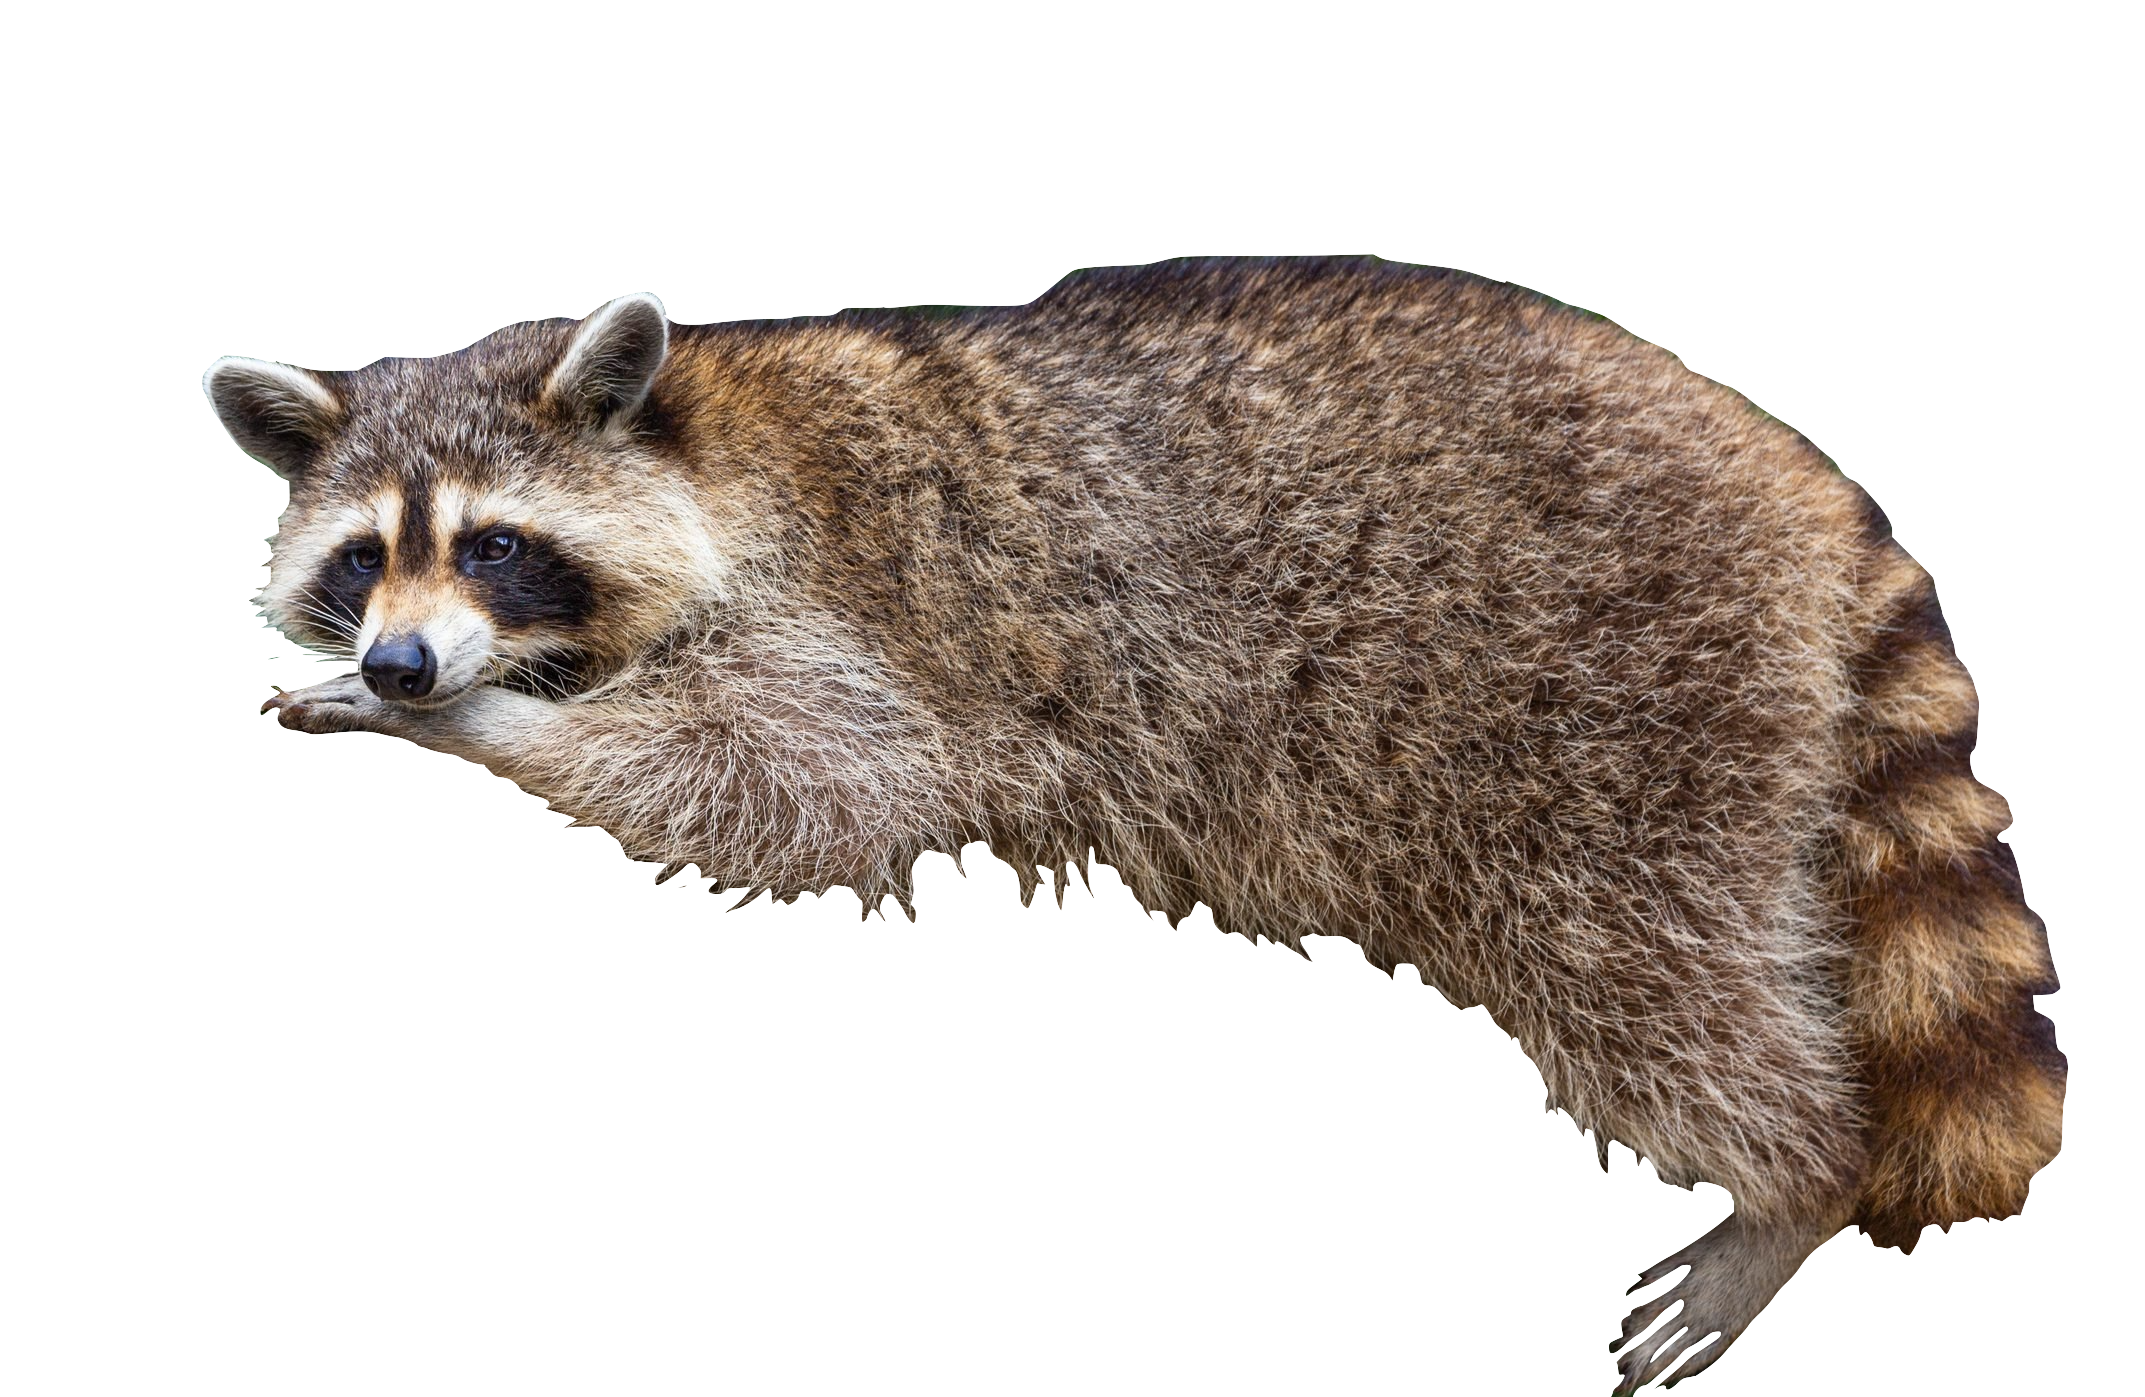
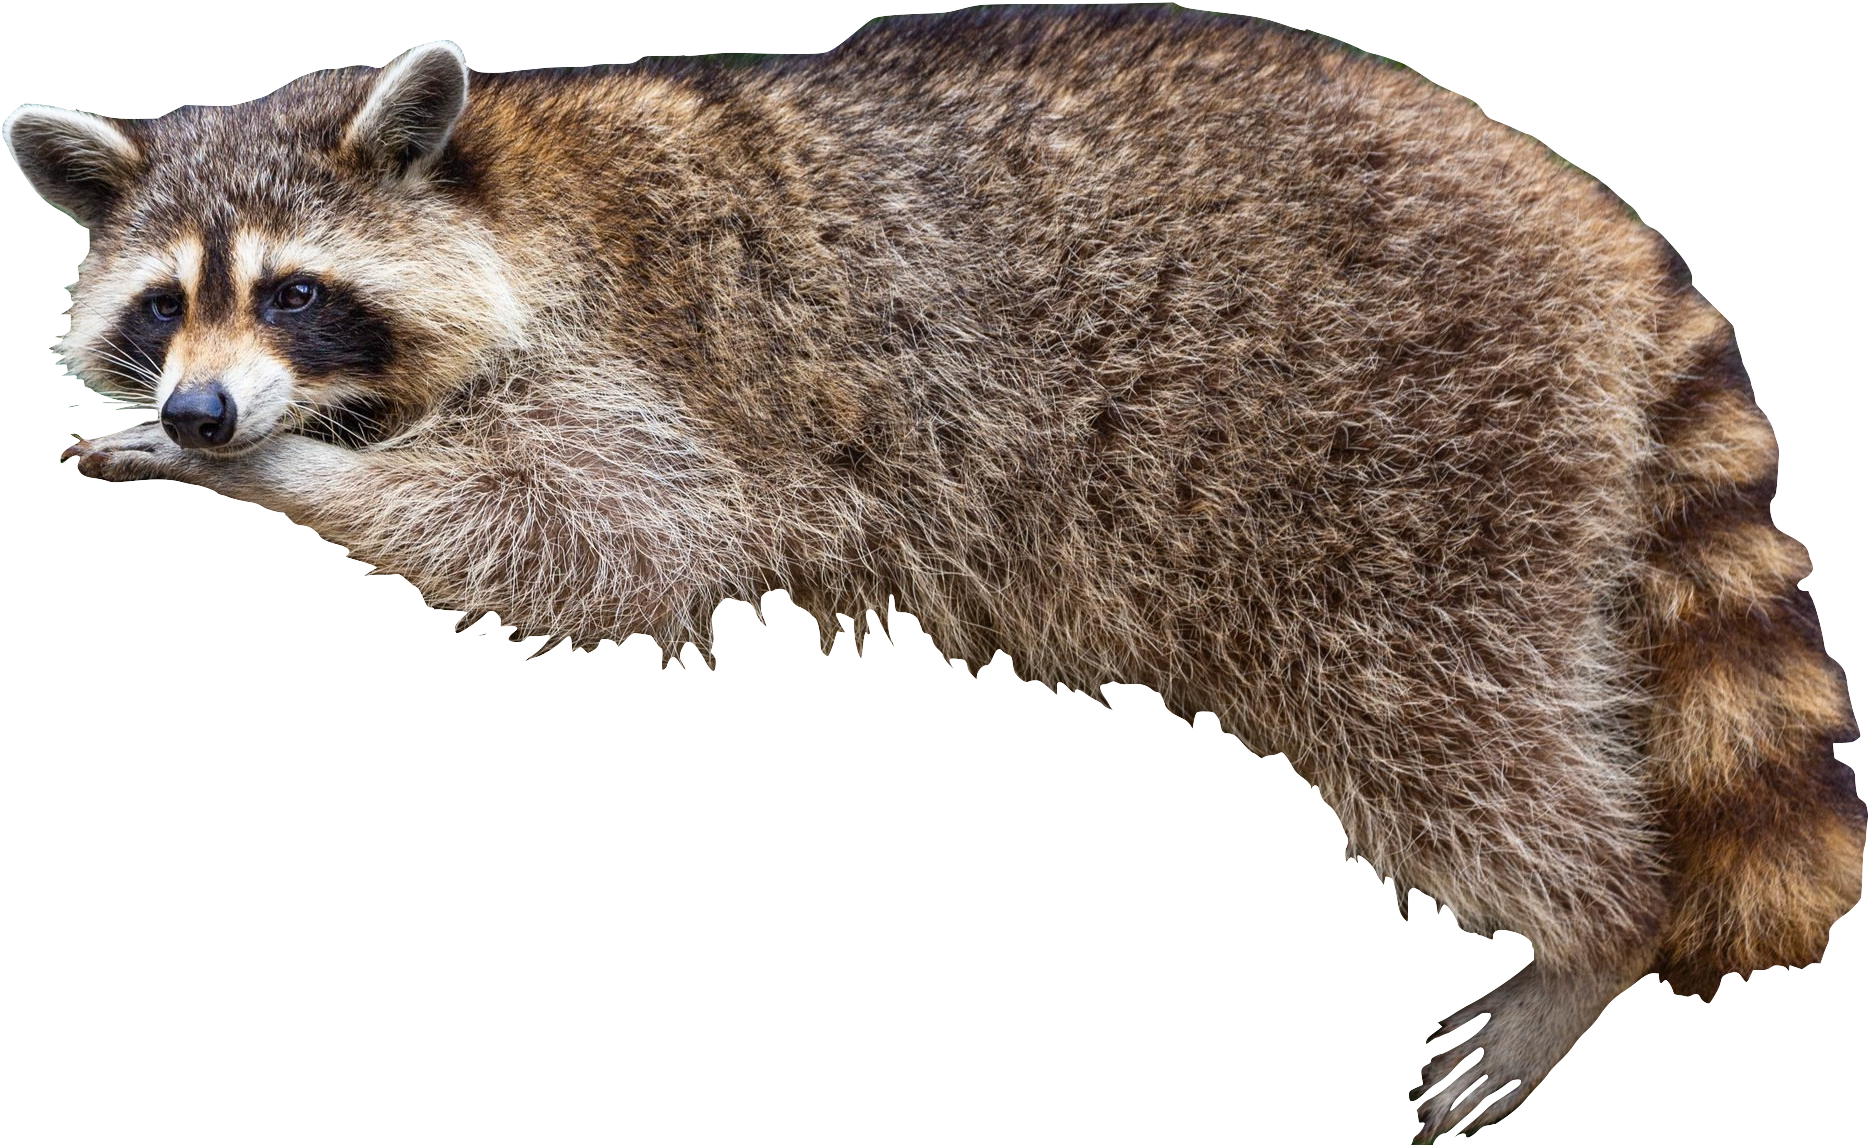
images positioned on Landing page

diff --git a/src/components/Landing/style.css b/src/components/Landing/style.css
@@ -1,0 +1,45 @@
+.landing {
+  padding: 250px 0 20px 0;
+}
+
+.landing .rope-bg {
+  background-image: url("../../images/rope.png");
+  width: 100vw;
+  height: 10px;
+  background-position: center center;
+}
+
+.landing .jeremy {
+  width: 40vw;
+  max-width: 300px;
+  position: absolute;
+  top: calc(250px - 9.5vw);
+  left: 58vw;
+}
+@media only screen and (min-width: 800px) {
+  .landing .jeremy {
+    top: calc(250px - 72px);
+    left: calc(95vw - 300px);
+  }
+}
+.landing .jeremiah {
+  width: 35vw;
+  max-width: 220px;
+  position: absolute;
+  -webkit-transform: scaleX(-1);
+  transform: scaleX(-1);
+  left: 5vw;
+  top: calc(250px - 21.7vw);
+}
+@media only screen and (min-width: 628px) {
+  .landing .jeremiah {
+    top: calc(250px - 136px);
+  }
+}
+
+.landing .birthday-img {
+  width: 40vw;
+  min-width: 300px;
+  display: block;
+  margin: 0 auto;
+}

diff --git a/src/index.css b/src/index.css
@@ -1,13 +1,22 @@
 body {
   margin: 0;
-  font-family: -apple-system, BlinkMacSystemFont, 'Segoe UI', 'Roboto', 'Oxygen',
-    'Ubuntu', 'Cantarell', 'Fira Sans', 'Droid Sans', 'Helvetica Neue',
+  font-family: -apple-system, BlinkMacSystemFont, "Segoe UI", "Roboto", "Oxygen",
+    "Ubuntu", "Cantarell", "Fira Sans", "Droid Sans", "Helvetica Neue",
     sans-serif;
   -webkit-font-smoothing: antialiased;
   -moz-osx-font-smoothing: grayscale;
 }
 
 code {
-  font-family: source-code-pro, Menlo, Monaco, Consolas, 'Courier New',
+  font-family: source-code-pro, Menlo, Monaco, Consolas, "Courier New",
     monospace;
+}
+
+html {
+  --theme-salmon: #dbb1bc;
+  --theme-light-purple: #d3c4e3;
+  --theme-purple: #8f95d3;
+  --theme-blue: #89daff;
+  --theme-brown: #58504a;
+  background-color: var(--theme-blue);
 }

diff --git a/src/index.js b/src/index.js
@@ -1,14 +1,14 @@
-import React from 'react';
-import ReactDOM from 'react-dom';
-import './index.css';
-import App from './App';
-import reportWebVitals from './reportWebVitals';
+import React from "react";
+import ReactDOM from "react-dom";
+import "./index.css";
+import Main from "./components/Main";
+import reportWebVitals from "./reportWebVitals";
 
 ReactDOM.render(
   <React.StrictMode>
-    <App />
+    <Main />
   </React.StrictMode>,
-  document.getElementById('root')
+  document.getElementById("root")
 );
 
 // If you want to start measuring performance in your app, pass a function

diff --git a/src/components/Landing/index.js b/src/components/Landing/index.js
@@ -1,0 +1,16 @@
+import React from "react";
+import "./style.css";
+import birthdayImg from "../../images/birthdayLogo.png";
+import raccoonImg from "../../images/raccoon.png";
+import possumImg from "../../images/possum.png";
+
+const Landing = () => (
+  <div className="landing">
+    <img src={raccoonImg} alt="Jermey the raccoon" className="jeremy" />
+    <img src={possumImg} alt="Jermiah the possum" className="jeremiah" />
+    <div className="rope-bg" />
+    <img src={birthdayImg} alt="happy birthday" className="birthday-img" />
+  </div>
+);
+
+export default Landing;

diff --git a/src/components/Main/index.js b/src/components/Main/index.js
@@ -1,0 +1,8 @@
+import React from "react";
+import Landing from "../Landing";
+
+const Main = () => {
+  return <Landing />;
+};
+
+export default Main;
